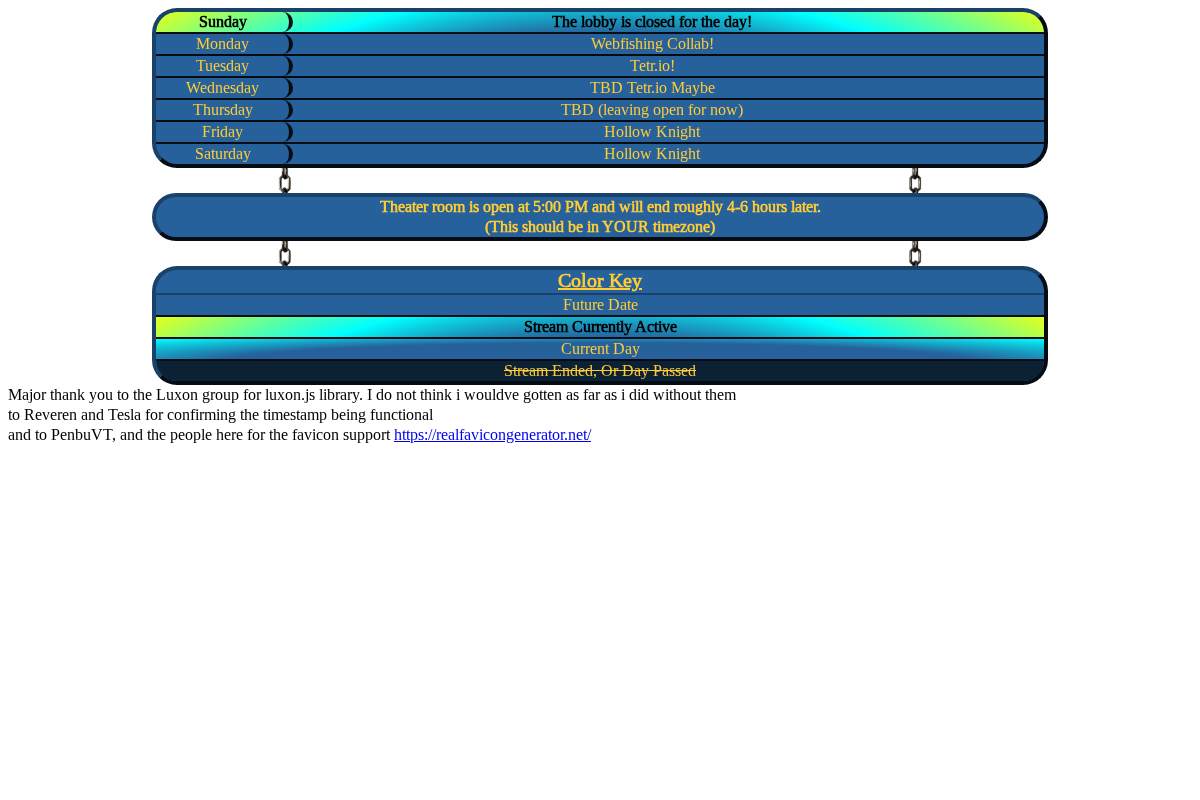
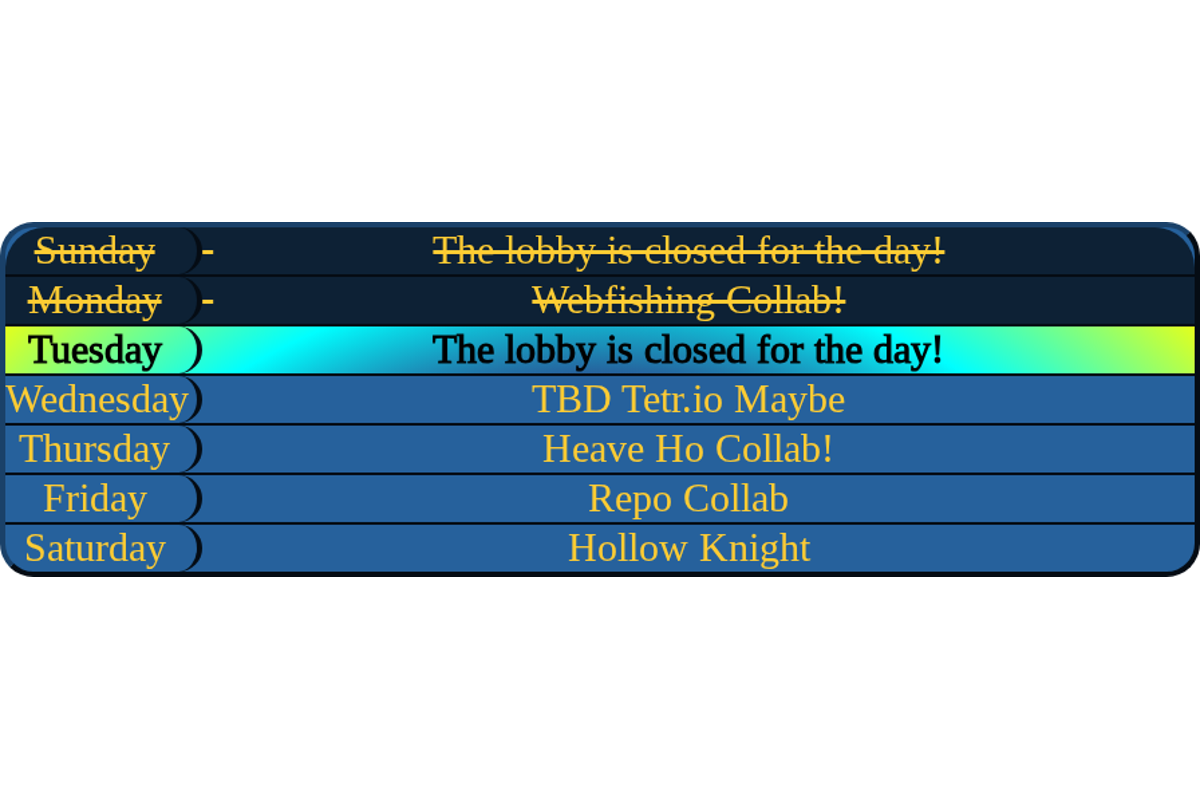
Collab Updates as Well as Preview Update just for the day/event section

diff --git a/Schedule.html b/Schedule.html
@@ -29,7 +29,7 @@
 			</div>
 			<div class="date">
 				<div class="day">Tuesday:</div>
-				<div class="plans">Tetr.io!</div>
+				<div class="plans">The lobby is closed for the day!</div>
 			</div>
 			<div class="date">
 				<div class="day">Wednessday:</div>
@@ -37,11 +37,11 @@
 			</div>
 			<div class="date">
 				<div class="day">Thursday:</div>
-				<div class="plans">TBD (leaving open for now)</div>
+				<div class="plans">Heave Ho Collab!</div>
 			</div>
 			<div class="date">
 				<div class="day">Friday:</div>
-				<div class="plans">Hollow Knight</div>
+				<div class="plans">Repo Collab</div>
 			</div>
 			<div class="date">
 				<div class="day">Saturday:</div>
